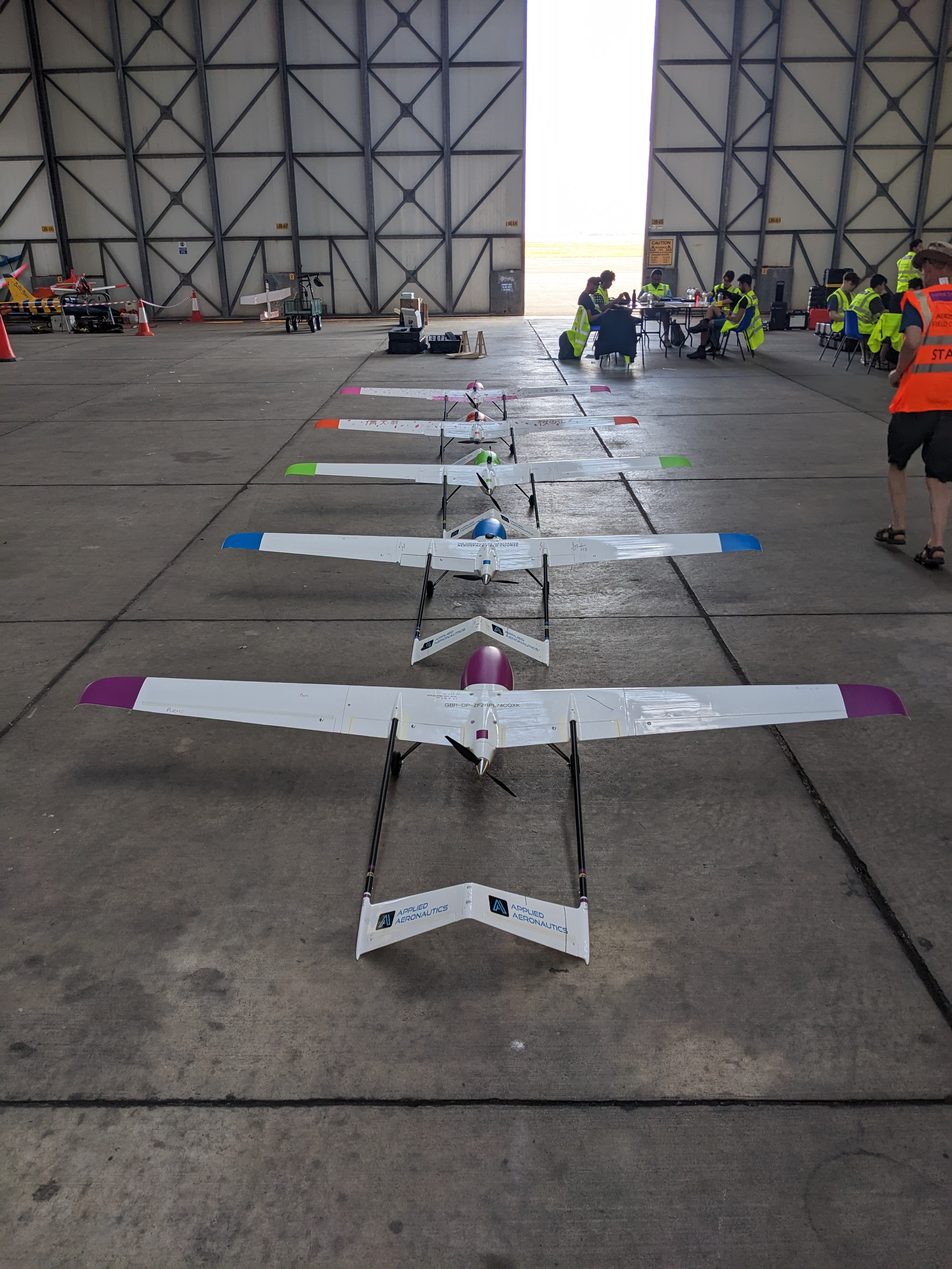
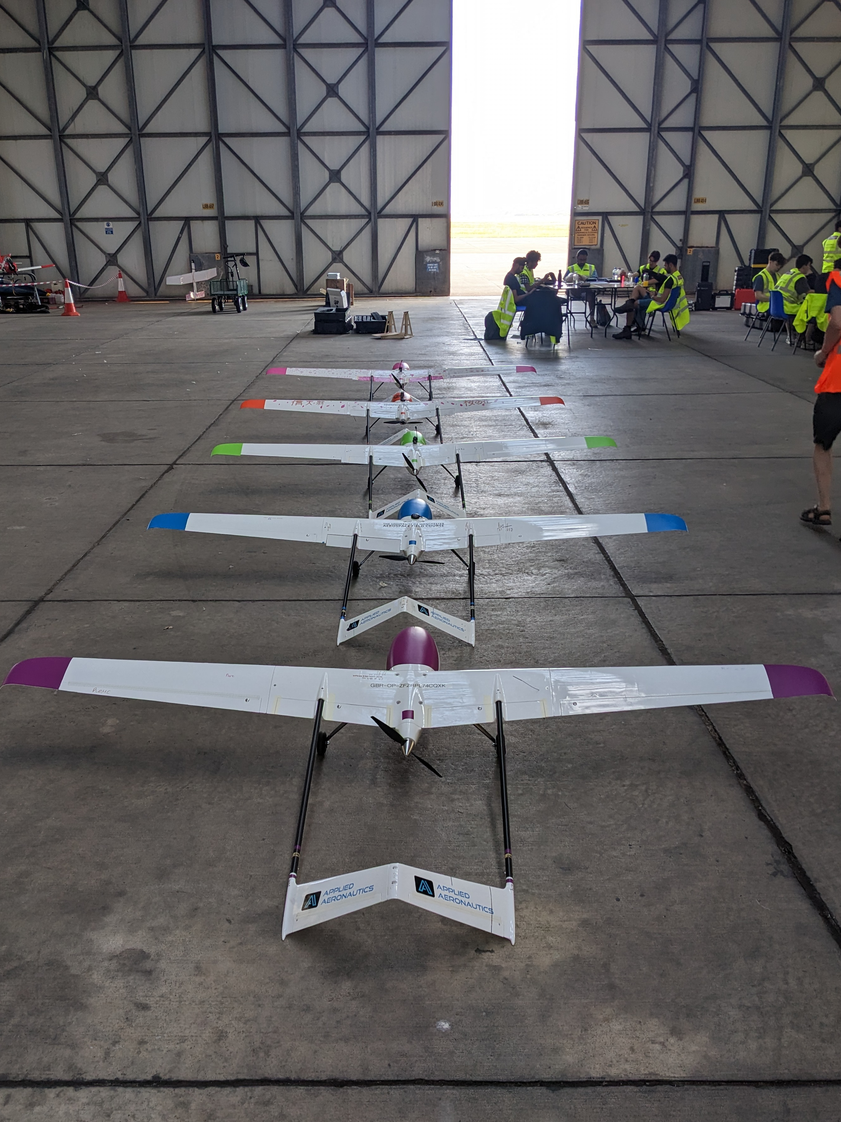
updates to teaching page
rearranged projects, teaching page, sorted taeching images

diff --git a/_projects/RG_Drones.md b/_projects/RG_Drones.md
@@ -1,16 +1,18 @@
 ---
 layout: page
-title: project 1
-description: with background image
+title: Development of Reduced Gravity Testing Capabilities Using UAS
+description: PhD, 2022-2026
 img: assets/img/12.jpg
 importance: 1
-category: work
+category: Research
 related_publications: true
 ---
 
-Every project has a beautiful feature showcase page.
-It's easy to include images in a flexible 3-column grid format.
-Make your photos 1/3, 2/3, or full width.
+I started this project in September 2022, with an aim of gaining an understanding of the use of UAS as a platform for reduced gravity experiments, as well as the reduced gravity field as a whole.
+
+Throughout this, I have been able to identify the gap that UAS, particularly multirotors, fill within the reduced gravity field. Modelling of multirotors has taken place, and the requirements for multirotors to perform such manoeuvres have been identified.
+
+More information will be added here as this project progresses.
 
 To give your project a background in the portfolio page, just add the img tag to the front matter like so:
 

diff --git a/_pages/teaching.md b/_pages/teaching.md
@@ -1,7 +1,7 @@
 ---
 layout: page
 permalink: /teaching/
-title: teaching
+title: Teaching
 description: A collection of courses I have supported as Graduate Teaching Assistant.
 nav: true
 nav_order: 6
@@ -31,6 +31,9 @@ Week-long residential field course ran by the University at Snowdonia Aerospace 
   <img src="/assets\img\AFC_3_alt.jpg" alt="Image 3" style="width: 30%; margin: 5px;">
 </div>
 
+<div style="margin-top: 20px; text-align: center;">
+  <img src="/assets\img\AFC_Week2_Group.JPG" alt="Wide Image 4" style="width: calc(100% - 30px); max-width: 100%; margin: 0px;">
+</div>
 
 ---
 

diff --git a/_pages/projects.md b/_pages/projects.md
@@ -1,11 +1,11 @@
 ---
 layout: page
-title: projects
+title: Projects 
 permalink: /projects/
-description: A growing collection of your cool projects.
+description: Various projects including research, UAS operations and hobbies.
 nav: true
 nav_order: 3
-display_categories: [work, fun]
+display_categories: [Research, UAS Operations]
 horizontal: false
 ---
 

diff --git a/_pages/organisations.md b/_pages/organisations.md
@@ -1,7 +1,7 @@
 ---
 layout: profiles
 permalink: /organisations/
-title: organisations
+title: Organisations
 description: Groups related to or supporting my work
 nav: true
 nav_order: 10

diff --git a/_pages/uas operations.md b/_pages/uas operations.md
@@ -1,9 +1,9 @@
 ---
 layout: page
-title: UAS operations
+title: UAS Operations
 permalink: /uas/
 description: Various places I've flown things
-nav: true
+nav: false
 nav_order: 9
 ---
 

diff --git a/_pages/about.md b/_pages/about.md
@@ -1,6 +1,6 @@
 ---
 layout: about
-title: about
+title: About
 permalink: /
 subtitle: # <a href='#'>Affiliations</a>. Address. Contacts. Motto. Etc.
 
